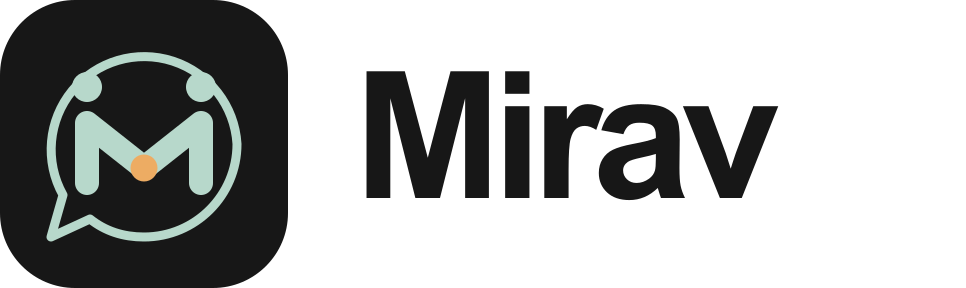
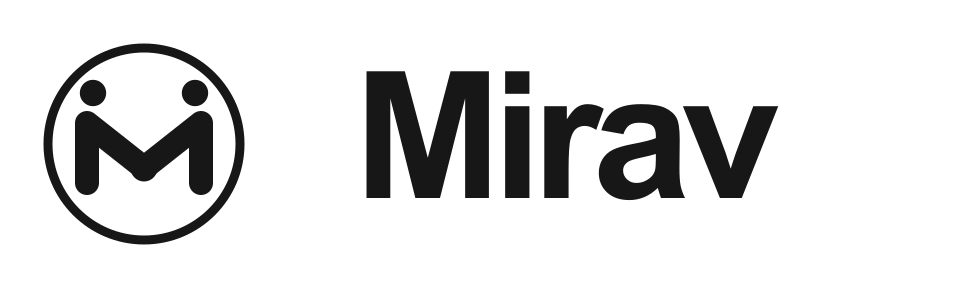
Publish transparent Mirav mark and community social covers

Changed region(s): [[0.0, 0.0, 0.3106, 1.0]]

diff --git a/README.md b/README.md
@@ -1,7 +1,7 @@
 # Mirav landing page
 
-Public marketing JSON and original character/logo assets. The mint M represents two people meeting inside a conversation and neighborhood circle. The orange dot is the shared meeting point.
+Public marketing content and original Mirav character and brand assets. The monochrome transparent mark places two dots fully inside a closed neighborhood circle and M.
 
-The community-connections template is registered in the Gabriel PersonaLandingPage theme registry. It mounts the host-owned native hero chat and uses the normal authenticated/guest floating chat widgets.
+The Neighborhood and Schools covers are character-free 1200×630 images, used as both persona banners and social previews. The shared landing template mounts native hero chat and the standard floating widget.
 
-Runtime profiles, contacts, locations and Maps credentials remain private and outside this repository.
+Runtime profiles, contacts, precise locations and Maps credentials remain private and outside this repository.
